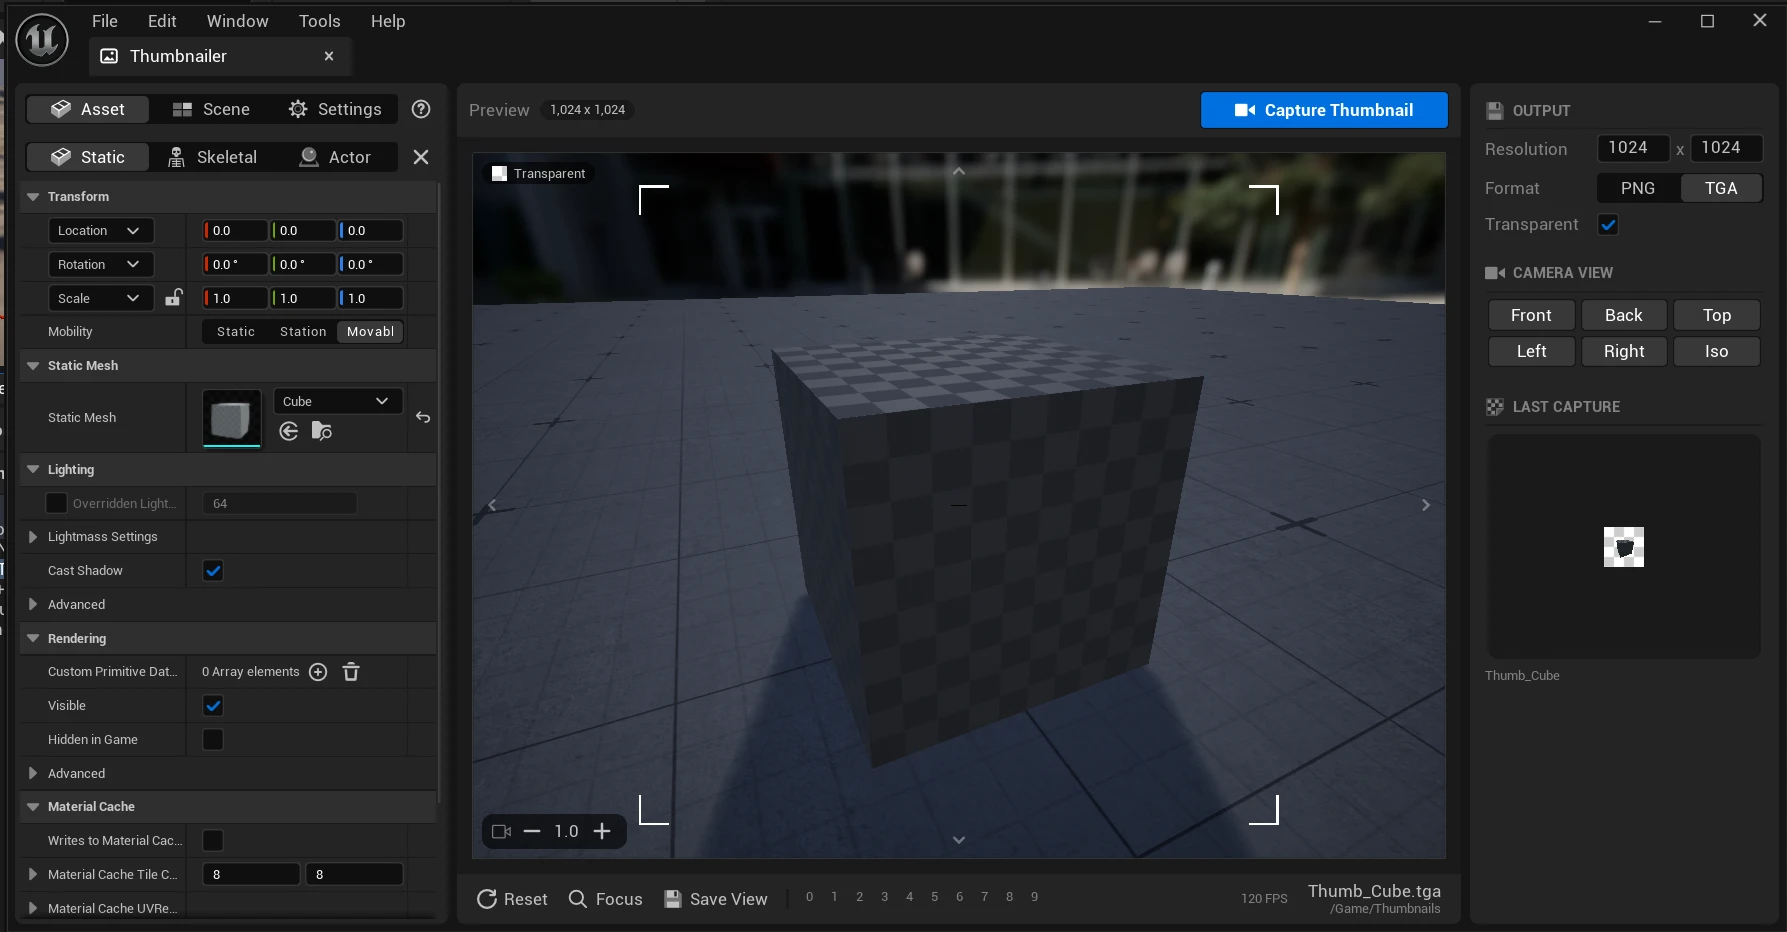
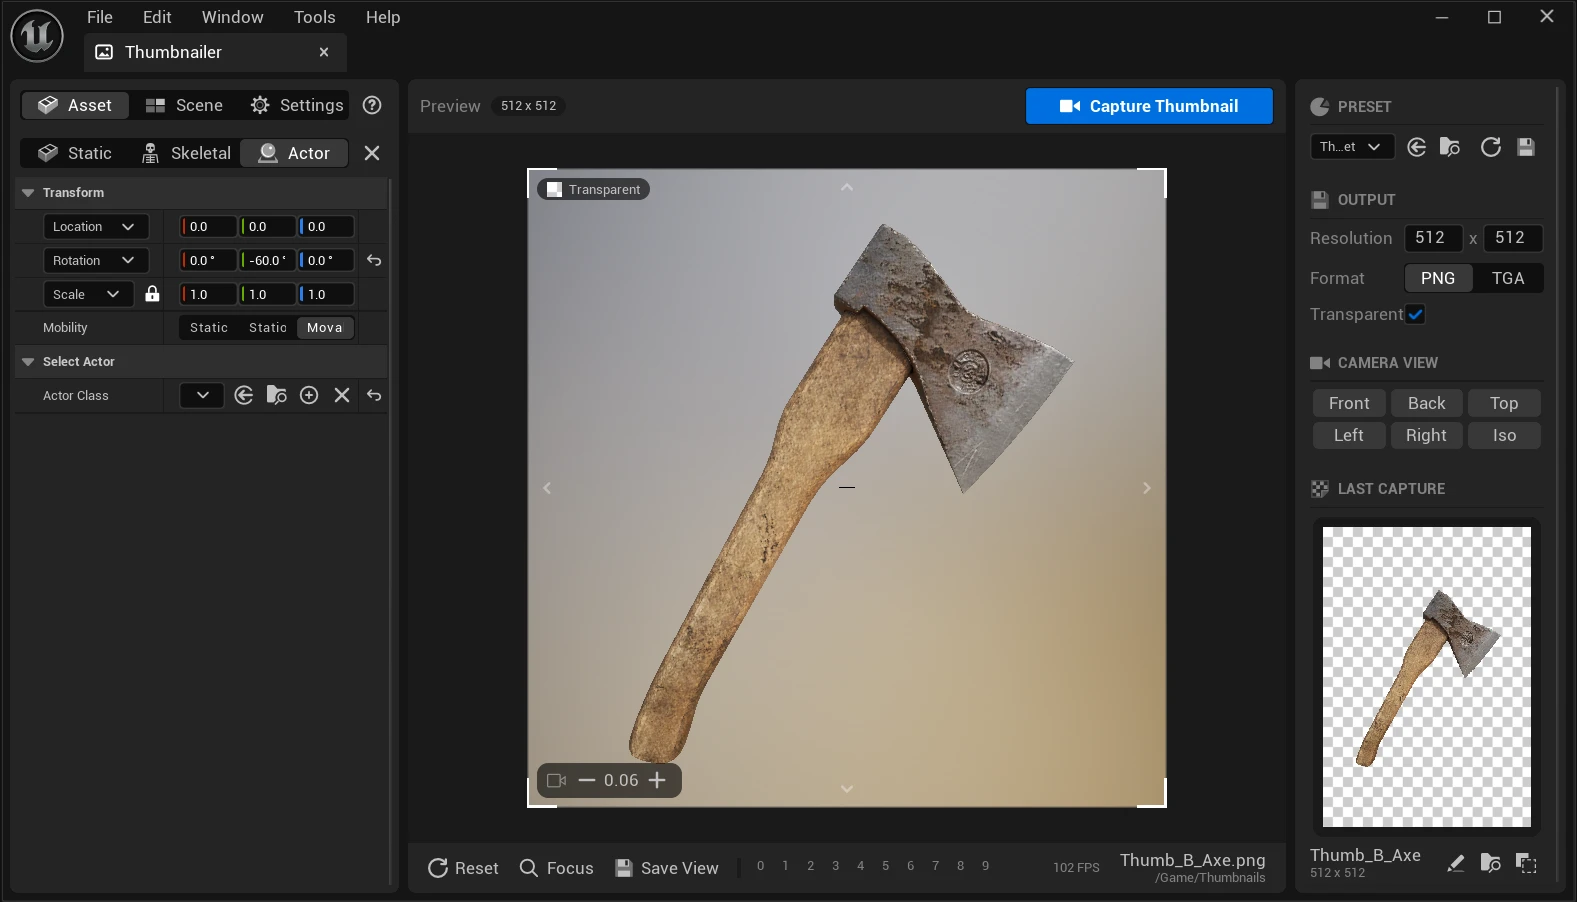
update

diff --git a/docs/docfiles/guides/batch-and-presets.md b/docs/docfiles/guides/batch-and-presets.md
@@ -1,0 +1,65 @@
+---
+sidebar_position: 5
+description: Capture thumbnails of many assets at once, and save the settings and camera as presets that can be shared with your team.
+---
+
+# Batch Capture and Presets
+
+## Capturing several assets
+Thumbnailer can capture a thumbnail of many assets in one go. Every asset is captured with the current settings, scene and camera rotation in the Thumbnailer window.
+
+**Selected assets**
+1. Select the static meshes, skeletal meshes and actor Blueprints in the Content Browser.
+2. Right-click and select **Capture Thumbnails (N)**.
+
+**Whole folders**
+1. Right-click one or more folders in the Content Browser.
+2. Select **Capture Thumbnails**. Every static mesh, skeletal mesh and actor Blueprint in the folders and their subfolders is captured.
+
+The Thumbnailer window opens if it isn't open already, and a notification shows the progress. Click **Cancel** in the notification to stop after the current thumbnail. When the batch has finished, the notification shows how many thumbnails were captured and how many failed.
+
+:::tip
+Set up the first asset in the window before you start: pick a camera view, adjust the lighting and check the output settings. The batch uses the same settings for every asset.
+:::
+
+### Framing
+By default each asset is framed from the current camera rotation, so every asset fills the thumbnail. Turn off **Frame Each Asset** under **Settings → Camera** to keep the camera where it is instead. Every asset is then captured from the same location, so they keep their size relative to each other.
+
+### Existing thumbnails
+If some of the thumbnails already exist, you are asked once for the whole batch:
+
+| Answer | Result |
+|---|---|
+| **Yes** | Overwrites the existing thumbnails. |
+| **No** | Skips the assets that already have a thumbnail. |
+| **Cancel** | Doesn't start the batch. |
+
+Turn on **Suppress Overwrite Dialog** to always overwrite without asking.
+
+During a batch, **Override Thumbnail Name** is ignored, and no notification is shown for each thumbnail.
+
+## Presets
+A preset saves the settings, the camera and the scene profile as an asset in your project. Presets are saved in Content, so they can be shared with your team through source control, unlike the settings which are saved per user.
+
+The **Preset** section is at the top of the right panel.
+
+| Button | Description |
+|---|---|
+| Preset picker | Select a preset to apply it. Thumbnailer remembers the last selected preset. |
+| **Apply** (refresh icon) | Applies the selected preset again, for example after you changed some settings. |
+| **Save** (save icon) | Saves the current settings, camera and scene profile as a preset. Pick an existing preset to overwrite it. |
+
+A preset contains:
+
+| Category | Settings |
+|---|---|
+| Camera | Camera type, field of view, **Frame Each Asset**, camera rotation and location |
+| Scene | The preview scene profile. Leave it empty to keep the current profile. |
+| Output | Resolution, file format, save folder, file prefix, transparent background and editor billboards |
+| Rendering | The anti-aliasing, auto exposure, motion blur, screen space reflections and eye adaptation settings |
+
+Open the preset asset to change its values. When **Frame Each Asset** is on, the camera location is not used and the asset is framed from the camera rotation.
+
+:::info
+Presets are editor-only assets. They are never included in a packaged game.
+:::

diff --git a/docs/faq.md b/docs/faq.md
@@ -37,10 +37,13 @@ In `/Game/Thumbnails` by default. The folder is set with **Save Dir**, and the l
 A notification says `Thumbnail capture timed out` if the capture is not done after 10 seconds. This can happen the first time you capture a transparent thumbnail while shaders are still compiling. Wait for the shaders to finish and capture again.
 
 ## My settings are different in another project or on another computer
-The settings are saved per user and per project in `EditorPerProjectUserSettings.ini`, and are not shared through source control. See [Settings](/docfiles/reference/settings).
+The settings are saved per user and per project in `EditorPerProjectUserSettings.ini`, and are not shared through source control. Use a [preset](/docfiles/guides/batch-and-presets#presets) to share them. See [Settings](/docfiles/reference/settings).
 
 ## Can I capture several assets at once?
-No, the plugin captures one asset at a time. Use [camera bookmarks](/docfiles/guides/camera#camera-bookmarks) to capture many assets from the same angle quickly.
+Yes. Select the assets in the Content Browser, or right-click a folder, and select **Capture Thumbnails**. See [Batch Capture and Presets](/docfiles/guides/batch-and-presets).
+
+## How do I share the same settings with my team?
+Save the settings as a preset with the save button in the **Preset** section. Presets are assets in Content and can be shared through source control. See [Presets](/docfiles/guides/batch-and-presets#presets).
 
 ## Is the plugin included in my packaged game?
 No. Thumbnailer is an editor plugin. Only the textures it creates are packaged, like any other texture.

diff --git a/docs/docfiles/reference/settings.md b/docs/docfiles/reference/settings.md
@@ -7,13 +7,14 @@ description: Every setting of the Thumbnailer plugin, with defaults.
 
 The settings are on the **Settings** tab in the Thumbnailer window, and in **Edit → Editor Preferences → Plugins → Thumbnailer**. Both show the same settings.
 
-The settings are saved per user and per project in `Saved/Config/<Platform>Editor/EditorPerProjectUserSettings.ini`, under `[/Script/Thumbnailer.ThumbnailerSettings]`. They are not shared through source control. The camera bookmarks and the default view are saved there too.
+The settings are saved per user and per project in `Saved/Config/<Platform>Editor/EditorPerProjectUserSettings.ini`, under `[/Script/Thumbnailer.ThumbnailerSettings]`. They are not shared through source control. The camera bookmarks, the default view and the last selected preset are saved there too. To share settings with your team, save them as a [preset](/docfiles/guides/batch-and-presets#presets).
 
 ## Camera
 | Setting | Default | Description |
 |---|---|---|
 | Camera Type | `Perspective` | `Perspective` or `Orthographic`. See [Camera and Framing](/docfiles/guides/camera#perspective-or-orthographic). |
 | Field of View (FOV) | `85` | The field of view of the perspective camera. A smaller value gives a flatter look. Only used with `Perspective`. |
+| Frame Each Asset | On | When capturing several assets, frames each asset from the current camera rotation. Turn off to keep the camera location, so every asset is captured at the same scale. See [Batch Capture](/docfiles/guides/batch-and-presets#framing). |
 
 ## Output
 | Setting | Default | Description |

diff --git a/docs/introduction.md b/docs/introduction.md
@@ -16,6 +16,8 @@ Thumbnailer creates thumbnails and icons for your games and projects inside the 
 - **Transparent backgrounds**, so the thumbnail can be placed on any UI. See [Transparent Thumbnails](/docfiles/guides/transparent-thumbnails).
 - **Any resolution**, saved as PNG or TGA and imported as a texture with UI-friendly settings. See [Output and Naming](/docfiles/guides/output).
 - **Camera views and bookmarks.** Frame the asset from the front, back, sides, top or an isometric angle with one click, and save up to ten camera positions on the number keys. See [Camera and Framing](/docfiles/guides/camera).
+- **Batch capture.** Capture every selected asset, or every asset in a folder, in one go. See [Batch Capture and Presets](/docfiles/guides/batch-and-presets).
+- **Presets** that save the settings, camera and scene profile as an asset you can share with your team.
 - **Perspective or orthographic camera**, with an adjustable field of view.
 - **A customizable preview scene**: lighting, environment, floor and post processing. See [Preview Scene](/docfiles/guides/preview-scene).
 - **Framing aids** in the preview: a crosshair, frame corners, grid and axes.

diff --git a/docs/docfiles/getting_started/thumbnailer-window.md b/docs/docfiles/getting_started/thumbnailer-window.md
@@ -45,6 +45,7 @@ The lower right shows the frame rate, the file name of the next capture and the 
 ## Right panel
 | Section | Description |
 |---|---|
+| **Preset** | Pick a preset to apply it, apply it again, or save the current settings, camera and scene profile as a preset. See [Presets](/docfiles/guides/batch-and-presets#presets). |
 | **Output** | Resolution, format (PNG or TGA) and transparent background. See [Output and Naming](/docfiles/guides/output). |
 | **Camera View** | Frames the asset from the front, back, top, left, right or an isometric angle. The view the camera is in is highlighted. |
 | **Last Capture** | The latest thumbnail, shown on a checkerboard so transparency is visible. Click it to open a larger preview. Below it are the name and size of the texture and buttons to open it in the texture editor, show it in the Content Browser, and copy its object path. |
